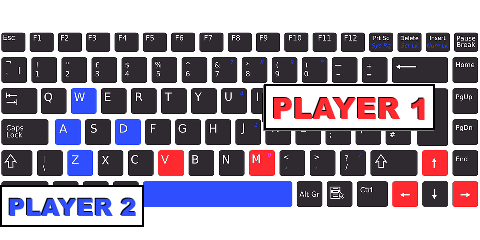
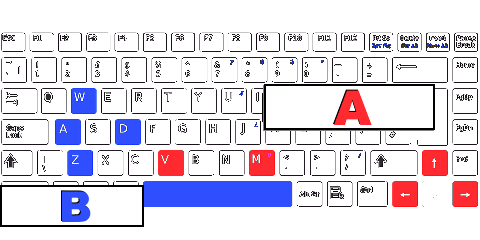
switch controls

diff --git a/scenes/Play.js b/scenes/Play.js
@@ -97,19 +97,18 @@ export default class Play extends Phaser.Scene {
         //if (this.registry.set('voiceCommands'))getVoiceCommandsHandler();
 
         this.player  = new Player(this,400,0,1, key1)
-        this.player .addcompoment(playerInputhandler, player1options )
+        if (this.registry.get('switchControls')) this.player .addcompoment(playerInputhandler, player2options )
+        else this.player .addcompoment(playerInputhandler, player1options )
+        
         this.entities.push(this.player)
         this.lastTouched = this.player ;
         
         this.player2 = new Player(this,0,0,-1,  key2);
-        if (mode == 'single'){
+        if (mode == 'single' || mode == 'campaign'){
             this.player2.addcompoment(AI_handler2, null )
         } else if (mode == 'multiplayer'){
             this.player2.addcompoment(playerInputhandler, player2options )
         } 
-        else if (mode == 'campaign'){
-            this.player2.addcompoment(AI_handler2, null )
-        }
         
         this.entities.push(this.player2);
 
@@ -256,11 +255,16 @@ export default class Play extends Phaser.Scene {
     }
 
     placeObjects(){
+        if(/*this.registry.get('switchControls')*/ false ){
+            this.player2.setPosition(this.gameOptions.width-200,this.floorY-60)
+            this.player.setPosition(200,this.floorY-60)
+        } else {
+            this.player.setPosition(this.gameOptions.width-200,this.floorY-60)
+            this.player2.setPosition(200,this.floorY-60)
+        }
         this.ball.setPosition(this.gameOptions.width/2,350)
         this.ball.setVelocity( Math.floor(Math.random() * (10 - 0)) -5 ,0)
-        this.player.setPosition(this.gameOptions.width-200,this.floorY-60)
         this.player.setVelocity(0,0)
-        this.player2.setPosition(200,this.floorY-60)
         this.player2.setVelocity(0,0)
     }
     

diff --git a/scenes/MenuScene.js b/scenes/MenuScene.js
@@ -52,6 +52,7 @@ export default class MenuScene extends Phaser.Scene {
         // let online = this.getChoices('ONLINE', 2, {'mode':'online'});
         // container.add(online);
         createVolumeBtn(this, 4,this.gameOptions.height);
+        this.switchControls()
 
 
     
@@ -81,6 +82,38 @@ export default class MenuScene extends Phaser.Scene {
             this.scene.scene.start('SelectScene')
         });
         return choise;
+    } 
+
+    switchControls(){
+        let toggleContainerElement = document.createElement('div');
+        toggleContainerElement.id = 'toggle';
+        toggleContainerElement.innerHTML = /*html*/ 
+        `<div class="toggleContainer">
+        <div>
+            <h4>Switch Controls</h4>
+        </div>
+        <div> 
+            <label class="switch">
+                <input type="checkbox" ${this.registry.get('switchControls') ? 'checked' : ''}>
+                <span class="slider round"></span>
+            </label>
+        </div>
+
+        </div>
+
+        
+        `;
+
+        const toggleContainer = this.add.dom(this.gameOptions.width-200,this.gameOptions.height-10,toggleContainerElement).setOrigin(0,1);
+        const toggleElement = document.querySelector('#toggle input');
+        // if (this.registry.get('switchControls')){
+        //     toggleElement.checked = true;
+        // }
+
+        //document.querySelector('.switch input[type="checkbox"]').checked = true;
+        toggleElement.addEventListener('change', () => {
+            this.registry.toggle('switchControls');
+        });
     }
 
     voiceCommands(){

diff --git a/scenes/ChooseScene.js b/scenes/ChooseScene.js
@@ -36,6 +36,24 @@ export default class ChooseScene extends Phaser.Scene {
         container.add(multiplayer);
         createVolumeBtn(this, 4,this.gameOptions.height);
 
+        let footerEl = document.createElement('div');
+        footerEl.id = 'footer';
+        footerEl.classList.add('w-50')
+        footerEl.innerHTML = /*html*/ 
+        `
+        <div class="bottom-buttons">
+            <button class="btn btn-success w-100 font-weight-bold fs-3" id="Menu">Menu</button>
+        </div>
+        `;
+        footerEl.style.width = this.gameOptions.width+'px';
+        const footer = this.add.dom(0,this.gameOptions.height,footerEl).setOrigin(0,1);
+
+        const menuButton = document.getElementById('Menu');
+        menuButton.addEventListener('click', () => {
+            this.soundPlayer.play('choose_button');
+            this.scene.start('MenuScene')
+        });
+
     }
 
     update(){}

diff --git a/data/levels.js b/data/levels.js
@@ -13,18 +13,20 @@ export const LEVELS = [
         'strategy': null,
         'special_effect': null,
     },
-    // {
-    //     'index': 2,
-    //     'enemy_name': 'Brook',
-    //     'enemy_key': '11.png',
-    //     'strategy': null,
-    //     'special_effect': null,
-    // },
-    // {
-    //     'index': 3,
-    //     'enemy_name': 'Brook',
-    //     'enemy_key': '12.png',
-    //     'strategy': null,
-    //     'special_effect': null,
-    // },
+    {
+        'index': 2,
+        'enemy_name': 'Brook',
+        'enemy_key': '11.png',
+        'strategy': null,
+        'special_effect': null,
+    },
+    {
+        'index': 3,
+        'enemy_name': 'George',
+        'enemy_key': '12.png',
+        'strategy': null,
+        'special_effect': null,
+    },
 ]
+
+// window.game.scene.scenes[1].registry.set('campaign', { 'LEVEL':3, 'name1':'Test', 'key1':'10.png' })

diff --git a/toggle.html b/toggle.html
@@ -70,13 +70,24 @@ input:checked + .slider:before {
 }
 </style>
 <body>
-    <label for="controls-switch" class="switch-label">Controls</label>
+    <label for="controls-switch" class="switch-label">Switch Controls</label>
     <label class="switch">
     <input type="checkbox">
     <span class="slider round"></span>
     </label>
 
   <script>
+    const switchInput = document.querySelector('.switch input');
+
+    switchInput.addEventListener('change', (event) => {
+    if (event.target.checked) {
+      this.registry.set('changeControllers', true) ;
+      // Add logic for when the switch is turned on
+    } else {
+      this.registry.set('changeControllers', false) ;
+      // Add logic for when the switch is turned off
+    }
+  });
     
   </script>
 </body>

diff --git a/utils/buttons.js b/utils/buttons.js
@@ -125,7 +125,7 @@ export function buttonsContainer(scene, start_x, start_y){
 }
 
 export function displayControllers(scene, start_x, start_y){
-    let controller1="Controls A: Arrows + M/V/]"
+    let controller1="Controls A: Arrows + M/V"
     let controller2="Controls B: A,W,D + Z/SPACE"
 
     scene.add.bitmapText(start_x, start_y-25, "bitmapFont", controller1,20).setOrigin(0,1);

diff --git a/Compoments/playerInputHandler.js b/Compoments/playerInputHandler.js
@@ -1,6 +1,6 @@
 export const player1options = function() {
     return {
-        'kick' : ['m','μ', 'M', 'Μ', 'ω', 'Ω', 'v', 'V', ']'],
+        'kick' : ['m','μ', 'M', 'Μ', 'ω', 'Ω', 'v', 'V'],
         'left' : this.cursor.left,
         'right' : this.cursor.right,
         'up' : this.cursor.up

diff --git a/select_style.css b/select_style.css
@@ -183,7 +183,7 @@ h6{
     left: 0;
     right: 0;
     bottom: 0;
-    background-color: #e74141;
+    background-color: #FF2930;
     -webkit-transition: .4s;
     transition: .4s;
   }

diff --git a/variables.js b/variables.js
@@ -1,6 +1,6 @@
 
 export default{
-    "gameDuration": 60,
+    "gameDuration": 2,
     "stadiumHeight": 900,
     "ball":{
         "size": 32,
